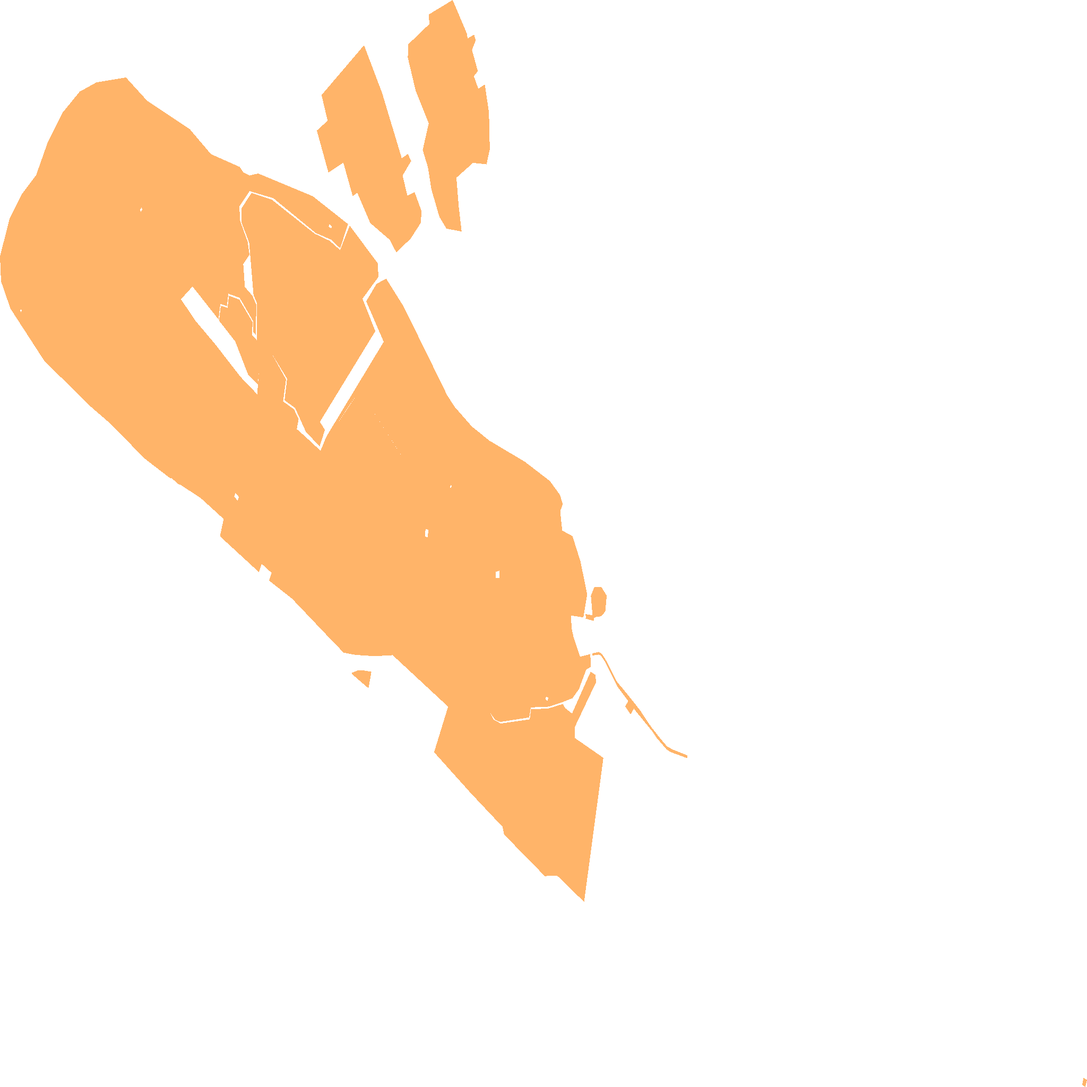
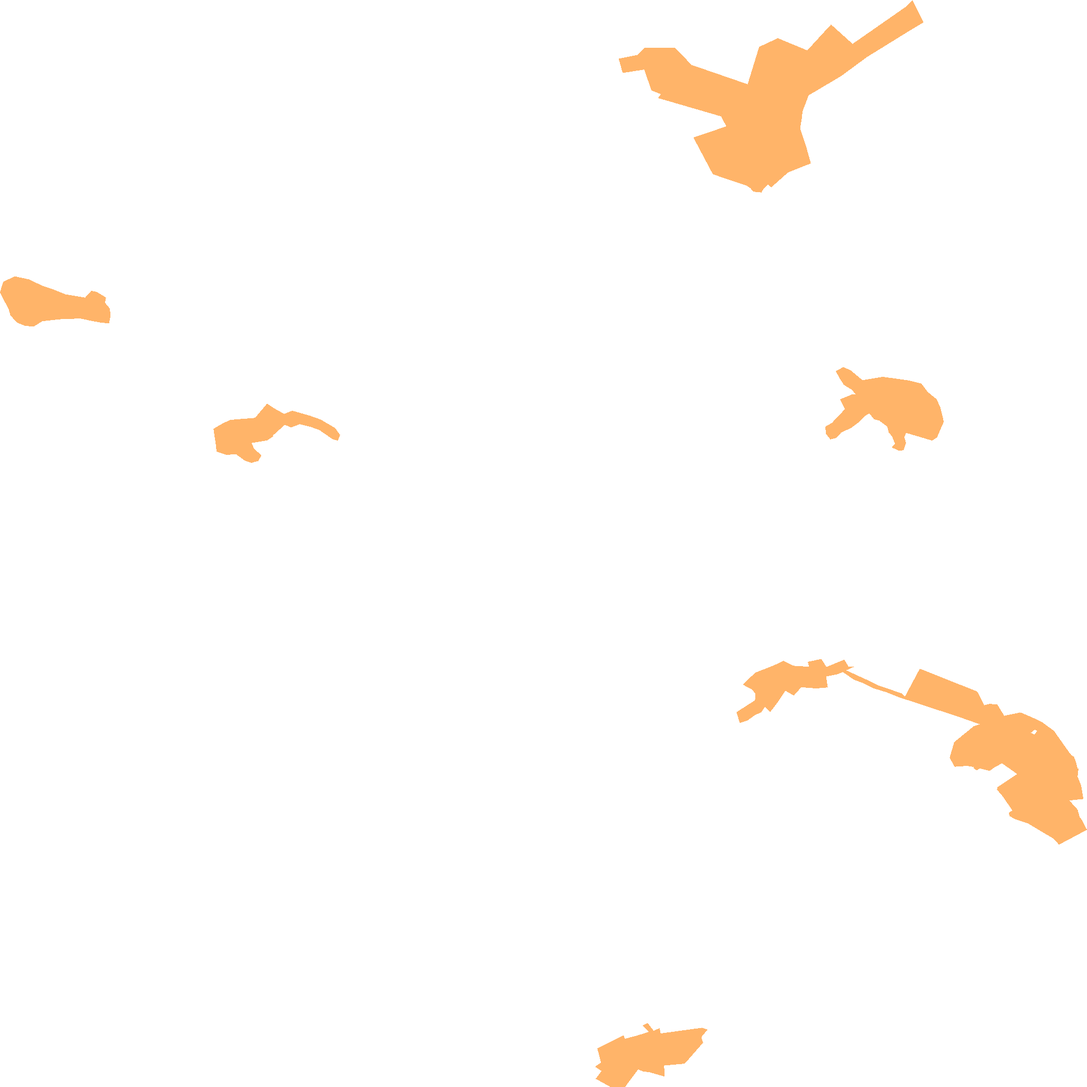
Update Störungskarte

diff --git a/stoerungen.html b/stoerungen.html
@@ -134,7 +134,7 @@
         <div><span style="display:inline-block;width:20px; height:10px; background:#00143C; margin-right:5px;"></span>Ausbauphase 2: Interessenbekundung möglich</div>
     </div>
     <script>
-    const bounds = [[53.170185132, 8.528619404], [53.202405457, 8.62410379]];
+    const bounds = [[50.140015555, 7.929725385], [50.221578332, 8.022248931]];
        const map = L.map('map', {zoomControl: false});
        map.fitBounds(bounds);
         const maptiler = L.tileLayer('https://api.maptiler.com/maps/basic/{z}/{x}/{y}.png?key=UrGMdlREnrfymuiwCa7d',
@@ -143,7 +143,7 @@
         L.control.zoom({
             position: 'topleft'
         }).addTo(map);
-        const geoJsonData = {"type": "FeatureCollection", "features": [{"type": "Feature", "geometry": {"type": "MultiPolygon", "coordinates": [[[[8.58095828, 53.182168112], [8.579112816, 53.180855714], [8.579112816, 53.180531295], [8.581622647, 53.179941436], [8.579928384, 53.175672317], [8.577587233, 53.176441439], [8.57689826, 53.176451271], [8.576488158, 53.176431607], [8.572895656, 53.177670403], [8.572764422, 53.177896529], [8.569992126, 53.178889501], [8.566748824, 53.180108788], [8.567983135, 53.181459078], [8.568792486, 53.181254935], [8.570501885, 53.181143365], [8.571707773, 53.181260007], [8.571978569, 53.181077436], [8.572608584, 53.180958938], [8.575151222, 53.181081824], [8.575266564, 53.181381661], [8.576779843, 53.18140378], [8.578065516, 53.181540182], [8.578268004, 53.181416069], [8.578866755, 53.181253861], [8.580498964, 53.182492518], [8.580950077, 53.182394213], [8.58095828, 53.182168112]]]]}, "properties": {"dgn_phase": 1}}, {"type": "Feature", "geometry": {"type": "MultiPolygon", "coordinates": [[[[8.581438173, 53.185006894], [8.581916514, 53.184750115], [8.581786963, 53.184275366], [8.581413261, 53.184135031], [8.581019626, 53.184126073], [8.580810353, 53.184084271], [8.580755543, 53.184000666], [8.580003302, 53.184073304], [8.580081868, 53.184070843], [8.580062041, 53.184201534], [8.580665854, 53.184167875], [8.580526338, 53.184747129], [8.580815336, 53.184997937], [8.581438173, 53.185006894]]]]}, "properties": {"dgn_phase": 1}}, {"type": "Feature", "geometry": {"type": "MultiPolygon", "coordinates": [[[[8.552250573, 53.185197408], [8.552478059, 53.185423494], [8.551615335, 53.185690383], [8.551357653, 53.18544861], [8.547941404, 53.186509305], [8.548267436, 53.187021667], [8.546231275, 53.187648288], [8.544442048, 53.188041398], [8.544442048, 53.188041398], [8.544272985, 53.188055488], [8.544272985, 53.188055488], [8.544185937, 53.188081567], [8.545009581, 53.188902875], [8.545139879, 53.189094071], [8.544717075, 53.189266146], [8.544368728, 53.189020779], [8.543727874, 53.188225717], [8.543661229, 53.188226452], [8.543589814, 53.188228629], [8.543589814, 53.188228629], [8.54346308, 53.188256471], [8.5413531, 53.188805671], [8.538203509, 53.189881936], [8.53645647, 53.190390571], [8.532494876, 53.19171742], [8.529535983, 53.193257986], [8.528711676, 53.194065103], [8.528619404, 53.194805868], [8.529474468, 53.195940946], [8.530544836, 53.196655882], [8.5317936, 53.19721603], [8.532814757, 53.198188902], [8.534112732, 53.199065941], [8.53561986, 53.199688701], [8.537102383, 53.199965071], [8.539686031, 53.200108783], [8.541543797, 53.199419699], [8.545302391, 53.198572147], [8.547154006, 53.197835133], [8.549688443, 53.197455565], [8.549993629, 53.19729718], [8.550556314, 53.197203115], [8.551293995, 53.197263938], [8.5560922, 53.196589548], [8.559186427, 53.195764053], [8.558503606, 53.195045416], [8.557710056, 53.195299704], [8.556356716, 53.195498711], [8.552628881, 53.196530585], [8.550543507, 53.196740642], [8.549645382, 53.196283674], [8.549713048, 53.19585987], [8.550371263, 53.195240739], [8.550537355, 53.194853778], [8.549989868, 53.194577374], [8.550125202, 53.193899258], [8.550783417, 53.193644962], [8.551134054, 53.193372236], [8.551084843, 53.192480339], [8.550863387, 53.192557736], [8.55087569, 53.192874692], [8.549669987, 53.193578623], [8.54867959, 53.193700244], [8.548556558, 53.193331696], [8.547972161, 53.193398035], [8.547812222, 53.192937347], [8.545529998, 53.193914], [8.544514994, 53.193534398], [8.545800667, 53.19289312], [8.547553856, 53.192189178], [8.549737654, 53.191238285], [8.551214026, 53.190718601], [8.551355135, 53.191352145], [8.551647613, 53.19237344], [8.551650785, 53.192384513], [8.552500252, 53.191917024], [8.553748462, 53.1911572], [8.553483945, 53.190508515], [8.554443586, 53.190272628], [8.55485574, 53.189988823], [8.554689648, 53.189686588], [8.55533556, 53.189494925], [8.556775022, 53.189045253], [8.557291751, 53.189465439], [8.562323713, 53.192273947], [8.560785828, 53.19347543], [8.561696256, 53.193991394], [8.56254517, 53.194146182], [8.564083056, 53.193313268], [8.566217641, 53.191850102], [8.56788471, 53.190700173], [8.568536774, 53.190353714], [8.570062357, 53.18976399], [8.571624849, 53.18934012], [8.574731379, 53.18871721], [8.57692748, 53.188145893], [8.577819453, 53.18772938], [8.578047061, 53.187463989], [8.577831758, 53.187250201], [8.578004, 53.186678864], [8.578908278, 53.186512991], [8.579615705, 53.185757338], [8.580200101, 53.184780498], [8.579861766, 53.184102227], [8.57879755, 53.184161208], [8.578816004, 53.183811009], [8.579012853, 53.183501358], [8.579572644, 53.182937345], [8.580470769, 53.183018445], [8.580532285, 53.182646119], [8.580113981, 53.182553959], [8.579480371, 53.18198256], [8.578908278, 53.181709761], [8.578102426, 53.181602852], [8.57684751, 53.181459078], [8.575241958, 53.181436959], [8.575106623, 53.181138351], [8.572553732, 53.181005635], [8.572113967, 53.181069829], [8.571707773, 53.181260007], [8.570501885, 53.181143365], [8.568792486, 53.181254935], [8.567983135, 53.181459078], [8.563111112, 53.182985267], [8.561536316, 53.182955777], [8.559863096, 53.18299264], [8.558805031, 53.183058996], [8.557476298, 53.183523476], [8.554277494, 53.184658853], [8.552250573, 53.185197408]], [[8.536640958, 53.19757693], [8.536087971, 53.197315399], [8.536470489, 53.196747499], [8.536764683, 53.196483877], [8.537460312, 53.196803992], [8.536981899, 53.197173425], [8.536640958, 53.19757693]], [[8.54940995, 53.196881873], [8.549890294, 53.197177202], [8.549287757, 53.19742457], [8.548866405, 53.197134291], [8.54940995, 53.196881873]], [[8.546821179, 53.195219692], [8.547367626, 53.19555743], [8.547043715, 53.195727781], [8.54647254, 53.195401893], [8.546821179, 53.195219692]], [[8.547911906, 53.191888483], [8.546820925, 53.192331759], [8.546762405, 53.192113878], [8.547824127, 53.191660583], [8.547911906, 53.191888483]], [[8.543869842, 53.191973632], [8.543731901, 53.191535361], [8.544559542, 53.191262379], [8.544793622, 53.191665591], [8.543869842, 53.191973632]], [[8.564105847, 53.188781734], [8.563424731, 53.189145293], [8.561123782, 53.190355671], [8.560218885, 53.190832894], [8.559194918, 53.190334351], [8.55814252, 53.189785685], [8.557404477, 53.189277958], [8.558525211, 53.188909443], [8.558743891, 53.189138742], [8.55948762, 53.189036278], [8.560227633, 53.189578206], [8.562872492, 53.188609299], [8.562461374, 53.18806736], [8.563119163, 53.187837443], [8.564105847, 53.188781734]], [[8.565598426, 53.188022209], [8.564710242, 53.18850434], [8.564503584, 53.188351534], [8.565400563, 53.187906285], [8.565598426, 53.188022209]], [[8.554479559, 53.187811198], [8.554034294, 53.187108276], [8.555374373, 53.186759375], [8.555288744, 53.186525918], [8.556140743, 53.186338639], [8.556483256, 53.186361729], [8.557258189, 53.186264241], [8.557497948, 53.18653105], [8.556988461, 53.18669524], [8.556812923, 53.186505395], [8.555952361, 53.186708067], [8.556110773, 53.186879952], [8.555622694, 53.186997962], [8.555746855, 53.187303248], [8.55463369, 53.187580313], [8.554753569, 53.187757325], [8.554479559, 53.187811198]], [[8.549606545, 53.187676203], [8.549293109, 53.187795422], [8.549188175, 53.187681102], [8.549492073, 53.187570865], [8.549606545, 53.187676203]], [[8.53038061, 53.193198412], [8.530455568, 53.193157124], [8.530524481, 53.193204931], [8.530449523, 53.193244769], [8.53038061, 53.193198412]], [[8.541040026, 53.196249071], [8.540908003, 53.196179985], [8.540989921, 53.196127575], [8.541125125, 53.196196661], [8.541040026, 53.196249071]], [[8.557550229, 53.195755427], [8.557487663, 53.195688611], [8.557713445, 53.195633202], [8.55776785, 53.19569513], [8.557550229, 53.195755427]], [[8.565997582, 53.186726401], [8.56595199, 53.186503649], [8.566193974, 53.186478432], [8.566246579, 53.186701184], [8.565997582, 53.186726401]], [[8.56822804, 53.18803032], [8.568140365, 53.187973583], [8.568201737, 53.18793786], [8.568291166, 53.187995648], [8.56822804, 53.18803032]], [[8.572181316, 53.185457118], [8.572165535, 53.185277439], [8.572489933, 53.185273236], [8.572512729, 53.185489691], [8.572181316, 53.185457118]], [[8.576586121, 53.181754125], [8.576542283, 53.181678464], [8.576719387, 53.181629075], [8.576777253, 53.1817226], [8.576586121, 53.181754125]]]]}, "properties": {"dgn_phase": 1}}, {"type": "Feature", "geometry": {"type": "MultiPolygon", "coordinates": [[[[8.536981899, 53.197173425], [8.537460312, 53.196803992], [8.536764683, 53.196483877], [8.536470489, 53.196747499], [8.536873796, 53.196854604], [8.536981899, 53.197173425]]]]}, "properties": {"dgn_phase": 1}}, {"type": "Feature", "geometry": {"type": "MultiPolygon", "coordinates": [[[[8.547043715, 53.195727781], [8.547367626, 53.19555743], [8.546821179, 53.195219692], [8.54647254, 53.195401893], [8.547043715, 53.195727781]]]]}, "properties": {"dgn_phase": 1}}, {"type": "Feature", "geometry": {"type": "MultiPolygon", "coordinates": [[[[8.555501652, 53.189594443], [8.554548162, 53.190309485], [8.553613127, 53.190541687], [8.553840735, 53.191179314], [8.552500252, 53.191917024], [8.551650785, 53.192384513], [8.551647613, 53.19237344], [8.551355135, 53.191352145], [8.551257085, 53.191009772], [8.550408173, 53.191304627], [8.549282441, 53.192285003], [8.547867585, 53.192896805], [8.548009071, 53.193342752], [8.548611922, 53.193280099], [8.548722649, 53.193641277], [8.549645382, 53.193523342], [8.550808023, 53.192856265], [8.550758811, 53.192480339], [8.551177115, 53.192321859], [8.551207873, 53.193409092], [8.550887994, 53.193659704], [8.550506597, 53.195214942], [8.549817625, 53.195826702], [8.549854534, 53.196239452], [8.550715749, 53.196689049], [8.552512001, 53.196482677], [8.55625214, 53.195480285], [8.557580873, 53.195266536], [8.558491302, 53.194993821], [8.559340216, 53.195716144], [8.561800833, 53.194603173], [8.561862349, 53.194197778], [8.560459796, 53.193549139], [8.56159168, 53.192590906], [8.556719657, 53.189900365], [8.557162568, 53.189664473], [8.556707355, 53.189177943], [8.555501652, 53.189594443]]]]}, "properties": {"dgn_phase": 1}}, {"type": "Feature", "geometry": {"type": "MultiPolygon", "coordinates": [[[[8.560000208, 53.196693578], [8.55960459, 53.196589889], [8.558778737, 53.19758233], [8.557468253, 53.197292007], [8.556449535, 53.198536236], [8.557399019, 53.198826551], [8.556864934, 53.199587878], [8.56059858, 53.201066059], [8.562181054, 53.19965305], [8.563911882, 53.197715642], [8.564455858, 53.197843027], [8.56473279, 53.19762973], [8.563981116, 53.197203132], [8.564406404, 53.196607665], [8.565034449, 53.196714317], [8.565657547, 53.196136618], [8.565568534, 53.195792958], [8.564703119, 53.195336715], [8.563432196, 53.194921946], [8.562848658, 53.195298202], [8.561147501, 53.195792958], [8.560000208, 53.196693578]]]]}, "properties": {"dgn_phase": 1}}, {"type": "Feature", "geometry": {"type": "MultiPolygon", "coordinates": [[[[8.543727874, 53.188225717], [8.544368728, 53.189020779], [8.544717075, 53.189266146], [8.545139879, 53.189094071], [8.545009581, 53.188902875], [8.544185937, 53.188081567], [8.543727874, 53.188225717]]]]}, "properties": {"dgn_phase": 1}}, {"type": "Feature", "geometry": {"type": "MultiPolygon", "coordinates": [[[[8.564710242, 53.18850434], [8.565598426, 53.188022209], [8.565400563, 53.187906285], [8.564503584, 53.188351534], [8.564710242, 53.18850434]]]]}, "properties": {"dgn_phase": 1}}, {"type": "Feature", "geometry": {"type": "MultiPolygon", "coordinates": [[[[8.580939374, 53.183061178], [8.58120527, 53.183080121], [8.581437695, 53.183041121], [8.581560416, 53.182987636], [8.581921141, 53.182799323], [8.582164606, 53.182634914], [8.582419464, 53.182462811], [8.582752298, 53.182233268], [8.582852705, 53.182178668], [8.583172523, 53.182056095], [8.583769394, 53.181809835], [8.584321638, 53.181576945], [8.584483223, 53.181506921], [8.584892477, 53.181329568], [8.585230889, 53.181152391], [8.585833336, 53.180853753], [8.586599413, 53.180525025], [8.58720558, 53.180285443], [8.587651838, 53.18019741], [8.589018504, 53.180010199], [8.589015094, 53.180001783], [8.588994404, 53.179950726], [8.588986893, 53.179932194], [8.587542133, 53.180110491], [8.587151658, 53.180198523], [8.586326081, 53.180523911], [8.585905854, 53.180731177], [8.584578236, 53.181279424], [8.584305161, 53.181401281], [8.583799144, 53.181627089], [8.582835971, 53.182062781], [8.582029317, 53.182610978], [8.581781686, 53.182779267], [8.581532525, 53.18291298], [8.581335427, 53.18298875], [8.581188534, 53.183001007], [8.580651628, 53.182974831], [8.580639563, 53.1830401], [8.580939374, 53.183061178]]]]}, "properties": {"dgn_phase": 1}}, {"type": "Feature", "geometry": {"type": "MultiPolygon", "coordinates": [[[[8.584013829, 53.181228445], [8.583541246, 53.181462566], [8.583799144, 53.181627089], [8.584305161, 53.181401281], [8.584013829, 53.181228445]]]]}, "properties": {"dgn_phase": 1}}, {"type": "Feature", "geometry": {"type": "MultiPolygon", "coordinates": [[[[8.56001012, 53.182528448], [8.560462084, 53.182538631], [8.561247076, 53.182493829], [8.560985412, 53.182003042], [8.559561553, 53.182418481], [8.559530969, 53.182463282], [8.56001012, 53.182528448]]]]}, "properties": {"dgn_phase": 1}}, {"type": "Feature", "geometry": {"type": "MultiPolygon", "coordinates": [[[[8.566338169, 53.201693855], [8.566282913, 53.201975188], [8.568382619, 53.202405457], [8.56963968, 53.201404247], [8.569694936, 53.20126358], [8.570261304, 53.201379423], [8.57041602, 53.201211284], [8.570080066, 53.200925313], [8.570592837, 53.200297759], [8.570243623, 53.200146827], [8.570637041, 53.199776114], [8.571207278, 53.199900568], [8.571569753, 53.199077047], [8.571644901, 53.197983409], [8.571357572, 53.197535883], [8.570166412, 53.19757737], [8.568712089, 53.197137607], [8.568915972, 53.196287941], [8.569168608, 53.195544468], [8.567843374, 53.195626782], [8.567218431, 53.195974621], [8.566513707, 53.196792433], [8.566207885, 53.197450918], [8.565746933, 53.197958051], [8.566278799, 53.198746618], [8.565135286, 53.199713058], [8.564445671, 53.200692629], [8.564473298, 53.201089813], [8.566338169, 53.201693855]]]]}, "properties": {"dgn_phase": 1}}, {"type": "Feature", "geometry": {"type": "MultiPolygon", "coordinates": [[[[8.543869842, 53.191973632], [8.544793622, 53.191665591], [8.544559542, 53.191262379], [8.543731901, 53.191535361], [8.543869842, 53.191973632]]]]}, "properties": {"dgn_phase": 1}}, {"type": "Feature", "geometry": {"type": "MultiPolygon", "coordinates": [[[[8.561123782, 53.190355671], [8.564105847, 53.188781734], [8.563119163, 53.187837443], [8.562461374, 53.18806736], [8.562872492, 53.188609299], [8.560227633, 53.189578206], [8.55948762, 53.189036278], [8.558743891, 53.189138742], [8.558525211, 53.188909443], [8.557404477, 53.189277958], [8.55814252, 53.189785685], [8.560218885, 53.190832894], [8.561123782, 53.190355671]]]]}, "properties": {"dgn_phase": 1}}, {"type": "Feature", "geometry": {"type": "MultiPolygon", "coordinates": [[[[8.549287757, 53.19742457], [8.549890294, 53.197177202], [8.54940995, 53.196881873], [8.548866405, 53.197134291], [8.549287757, 53.19742457]]]]}, "properties": {"dgn_phase": 1}}, {"type": "Feature", "geometry": {"type": "MultiPolygon", "coordinates": [[[[8.554479559, 53.187811198], [8.554753569, 53.187757325], [8.55463369, 53.187580313], [8.555746855, 53.187303248], [8.555622694, 53.186997962], [8.556110773, 53.186879952], [8.555952361, 53.186708067], [8.556812923, 53.186505395], [8.556988461, 53.18669524], [8.557497948, 53.18653105], [8.557258189, 53.186264241], [8.556483256, 53.186361729], [8.556140743, 53.186338639], [8.555288744, 53.186525918], [8.555374373, 53.186759375], [8.554034294, 53.187108276], [8.554479559, 53.187811198]]]]}, "properties": {"dgn_phase": 1}}, {"type": "Feature", "geometry": {"type": "MultiPolygon", "coordinates": [[[[8.536640958, 53.19757693], [8.536981899, 53.197173425], [8.536873796, 53.196854604], [8.536470489, 53.196747499], [8.536087971, 53.197315399], [8.536640958, 53.19757693]]]]}, "properties": {"dgn_phase": 1}}, {"type": "Feature", "geometry": {"type": "MultiPolygon", "coordinates": [[[[8.547911906, 53.191888483], [8.547824127, 53.191660583], [8.546762405, 53.192113878], [8.546820925, 53.192331759], [8.547911906, 53.191888483]]]]}, "properties": {"dgn_phase": 1}}, {"type": "Feature", "geometry": {"type": "MultiPolygon", "coordinates": [[[[8.623797805, 53.170453592], [8.62410379, 53.170400233], [8.623959143, 53.170185132], [8.623685146, 53.170247661], [8.623797805, 53.170453592]]]]}, "properties": {"dgn_phase": 1}}]};
+        const geoJsonData = {"type": "FeatureCollection", "features": [{"type": "Feature", "geometry": {"type": "MultiPolygon", "coordinates": [[[[8.016136822, 50.160112245], [8.015656347, 50.160341315], [8.01559489, 50.160606177], [8.015907758, 50.160756503], [8.01601391, 50.160613335], [8.016136822, 50.160112245]]]]}, "properties": {"dgn_phase": 1}}, {"type": "Feature", "geometry": {"type": "MultiPolygon", "coordinates": [[[[8.002296658, 50.218285696], [8.003543073, 50.21731075], [8.001300203, 50.215859152], [7.998557416, 50.214426775], [7.998043671, 50.213235822], [7.997964858, 50.212657859], [7.997833503, 50.21195146], [7.998323896, 50.210643747], [7.998744232, 50.20931852], [7.996803095, 50.208641311], [7.995378621, 50.207520414], [7.995091411, 50.207733081], [7.994774813, 50.207470859], [7.994531554, 50.207137544], [7.993844014, 50.207197479], [7.993582913, 50.20747086], [7.993253588, 50.207660527], [7.990404641, 50.208501199], [7.988746647, 50.211256738], [7.99154889, 50.212097411], [7.991105201, 50.212844675], [7.985734236, 50.214222444], [7.985982352, 50.214508507], [7.987850514, 50.215629403], [7.988597779, 50.216703597], [7.993361591, 50.215255772], [7.994342377, 50.218058014], [7.995930314, 50.218711871], [7.998438131, 50.217796596], [8.000460605, 50.21973936], [8.002296658, 50.218285696]]]]}, "properties": {"dgn_phase": 1}}, {"type": "Feature", "geometry": {"type": "MultiPolygon", "coordinates": [[[[7.939135495, 50.197892448], [7.939016191, 50.197325754], [7.938389845, 50.19735558], [7.937405587, 50.197519624], [7.936540631, 50.197683666], [7.935481808, 50.197638927], [7.935033738, 50.197638927], [7.933331686, 50.197478509], [7.932618509, 50.197087146], [7.931872859, 50.197116971], [7.931157033, 50.197385406], [7.930605253, 50.197922275], [7.930471035, 50.198369665], [7.930068384, 50.199040751], [7.929725385, 50.199652184], [7.929859602, 50.200039922], [7.929993819, 50.20042766], [7.930978078, 50.200845225], [7.932215858, 50.200606617], [7.933304508, 50.200144313], [7.934303679, 50.199846053], [7.935317765, 50.199488141], [7.936973109, 50.199249533], [7.937495064, 50.199756575], [7.937942455, 50.19968201], [7.938747756, 50.199249532], [7.93865828, 50.198861795], [7.939075843, 50.198429317], [7.939135495, 50.197892448]]]]}, "properties": {"dgn_phase": 1}}, {"type": "Feature", "geometry": {"type": "MultiPolygon", "coordinates": [[[[7.984616259, 50.217993796], [7.987161629, 50.218005472], [7.988597779, 50.216703597], [7.987850514, 50.215629403], [7.985982352, 50.214508507], [7.985165031, 50.214794569], [7.984569554, 50.216359155], [7.982724745, 50.216102282], [7.98238614, 50.217176476], [7.983985754, 50.2174567], [7.984616259, 50.217993796]]]]}, "properties": {"dgn_phase": 1}}, {"type": "Feature", "geometry": {"type": "MultiPolygon", "coordinates": [[[[8.003467179, 50.170587135], [8.004418655, 50.170172651], [8.006479439, 50.169546177], [8.0067538, 50.1693129], [8.006852301, 50.1692904], [8.0072328, 50.1691926], [8.0076941, 50.1690775], [8.0080508, 50.1689658], [8.010353301, 50.1682911], [8.011967901, 50.1678137], [8.012247701, 50.1678005], [8.012942133, 50.16762689], [8.013654498, 50.167378105], [8.013117935, 50.167233818], [8.01131141, 50.167795838], [8.006268949, 50.16925353], [8.005255293, 50.16961209], [8.004030457, 50.16994854], [8.003207557, 50.170319966], [8.002426549, 50.170565585], [8.001457359, 50.171158692], [8.001755229, 50.171278316], [8.003467179, 50.170587135]]]]}, "properties": {"dgn_phase": 1}}, {"type": "Feature", "geometry": {"type": "MultiPolygon", "coordinates": [[[[7.994000467, 50.171101223], [7.995566333, 50.171638091], [7.996397399, 50.171990901], [7.997266417, 50.171623177], [7.998593675, 50.171548613], [7.998489283, 50.171921438], [7.999637586, 50.17213022], [8.000070062, 50.1715337], [8.00159119, 50.172081753], [8.001949102, 50.171559798], [8.002456144, 50.171559797], [8.001755229, 50.171278316], [8.001457359, 50.171158692], [8.001054321, 50.170996831], [8.000040236, 50.170817875], [8.000189367, 50.169997659], [7.999175281, 50.169923095], [7.997922589, 50.170012572], [7.997296243, 50.169386226], [7.996580417, 50.169744139], [7.99589442, 50.168849358], [7.995282985, 50.168148446], [7.994835595, 50.168551098], [7.994522421, 50.168133533], [7.993985553, 50.167924751], [7.993359207, 50.167522099], [7.992703034, 50.167328231], [7.992404774, 50.168133533], [7.993985553, 50.169028313], [7.994030293, 50.169535356], [7.993717119, 50.16984853], [7.992956556, 50.170206442], [7.994000467, 50.171101223]]]]}, "properties": {"dgn_phase": 1}}, {"type": "Feature", "geometry": {"type": "MultiPolygon", "coordinates": [[[[8.0067538, 50.1693129], [8.0080171, 50.1714018], [8.012904299, 50.1696907], [8.0135091, 50.1686661], [8.0139551, 50.1687624], [8.014618099, 50.1687219], [8.014705201, 50.1685933], [8.015200901, 50.167869], [8.014727701, 50.1677493], [8.0145462, 50.1680318], [8.014011699, 50.1678918], [8.012942133, 50.16762689], [8.012247701, 50.1678005], [8.011967901, 50.1678137], [8.010353301, 50.1682911], [8.0080508, 50.1689658], [8.0076941, 50.1690775], [8.0072328, 50.1691926], [8.006852301, 50.1692904], [8.0067538, 50.1693129]]]]}, "properties": {"dgn_phase": 1}}, {"type": "Feature", "geometry": {"type": "MultiPolygon", "coordinates": [[[[8.001225821, 50.191610342], [8.00221008, 50.191968254], [8.002560536, 50.191990624], [8.002232449, 50.192333623], [8.00154645, 50.192706448], [8.001158712, 50.193243317], [8.000860453, 50.193735446], [8.001516624, 50.194033707], [8.002142971, 50.193780186], [8.003142142, 50.193049448], [8.004842226, 50.193302969], [8.006109832, 50.193153839], [8.007153743, 50.193019622], [8.008152916, 50.192795927], [8.008689783, 50.19216958], [8.009450347, 50.191617798], [8.009778433, 50.190976539], [8.01006178, 50.189932628], [8.009480173, 50.1887545], [8.009062609, 50.188515893], [8.008287132, 50.188724675], [8.00684057, 50.1890975], [8.006706353, 50.188769414], [8.006840569, 50.188336936], [8.006646701, 50.187800068], [8.006229136, 50.187755328], [8.005632615, 50.18800885], [8.005899463, 50.188287403], [8.005647529, 50.188843979], [8.005364182, 50.189142239], [8.005244878, 50.189574716], [8.005006269, 50.189723846], [8.004573791, 50.190022106], [8.004126402, 50.190111584], [8.00372375, 50.190558975], [8.003365838, 50.190380019], [8.002739492, 50.18984315], [8.002172798, 50.189470325], [8.001337668, 50.189127326], [8.000905191, 50.188724674], [8.000413062, 50.18860537], [8.000040236, 50.189008022], [7.999965671, 50.189559803], [8.000532365, 50.18984315], [8.001650842, 50.190887061], [8.001225821, 50.191610342]]]]}, "properties": {"dgn_phase": 1}}, {"type": "Feature", "geometry": {"type": "MultiPolygon", "coordinates": [[[[8.021455321, 50.160818701], [8.021585756, 50.160385682], [8.02161202, 50.16027689], [8.021801975, 50.160072872], [8.022248931, 50.159314068], [8.021975171, 50.159188792], [8.019868896, 50.158200893], [8.019332549, 50.158684107], [8.017254209, 50.159779374], [8.016136822, 50.160112245], [8.01601391, 50.160613335], [8.015907758, 50.160756503], [8.015052957, 50.161848144], [8.014583654, 50.162324163], [8.014611589, 50.162503117], [8.016310136, 50.163496827], [8.016534662, 50.163622453], [8.016899898, 50.162921098], [8.017129205, 50.162386543], [8.017306615, 50.162146134], [8.017569266, 50.161673769], [8.018000308, 50.161273952], [8.018096877, 50.161184378], [8.01841694, 50.1608481], [8.019693247, 50.16056711], [8.020243221, 50.160534593], [8.020746045, 50.160684919], [8.021455321, 50.160818701]]]]}, "properties": {"dgn_phase": 1}}, {"type": "Feature", "geometry": {"type": "MultiPolygon", "coordinates": [[[[7.948709648, 50.189820781], [7.949335995, 50.190074302], [7.949969799, 50.190119041], [7.951431274, 50.190223432], [7.952460271, 50.191297169], [7.953086619, 50.190924344], [7.953906834, 50.190521692], [7.954607746, 50.1907603], [7.956099047, 50.190387475], [7.957038567, 50.190089215], [7.958246521, 50.189462869], [7.958678998, 50.188940913], [7.958485128, 50.188523349], [7.958052651, 50.188612827], [7.95690098, 50.189314982], [7.956140416, 50.189553591], [7.955235359, 50.189751594], [7.954494168, 50.189498968], [7.953973155, 50.189704139], [7.952955108, 50.188902988], [7.952983266, 50.18883213], [7.952473333, 50.188531718], [7.951137011, 50.188337707], [7.951368088, 50.187885478], [7.951983055, 50.187419786], [7.951714621, 50.186987309], [7.951133014, 50.186853091], [7.950581232, 50.187002221], [7.949820668, 50.187494351], [7.948970627, 50.187449611], [7.948165324, 50.18768822], [7.94809076, 50.188225088], [7.947896889, 50.189403217], [7.948709648, 50.189820781]]]]}, "properties": {"dgn_phase": 1}}, {"type": "Feature", "geometry": {"type": "MultiPolygon", "coordinates": [[[[8.017460927, 50.16658665], [8.015606063, 50.167277345], [8.015224712, 50.167354496], [8.014727701, 50.1677493], [8.015200901, 50.167869], [8.016544669, 50.168114754], [8.016661995, 50.16809686], [8.017935816, 50.167610163], [8.018461509, 50.167374508], [8.017822703, 50.166840969], [8.017460927, 50.16658665]]]]}, "properties": {"dgn_phase": 1}}, {"type": "Feature", "geometry": {"type": "MultiPolygon", "coordinates": [[[[8.012054419, 50.164108877], [8.010986336, 50.164044387], [8.010555655, 50.164714744], [8.010948194, 50.165892552], [8.012591286, 50.167073609], [8.013117935, 50.167233818], [8.013654498, 50.167378105], [8.012942133, 50.16762689], [8.014011699, 50.1678918], [8.0145462, 50.1680318], [8.014727701, 50.1677493], [8.015224712, 50.167354496], [8.015606063, 50.167277345], [8.017460927, 50.16658665], [8.017767486, 50.166468198], [8.018009239, 50.166716974], [8.017822703, 50.166840969], [8.018461509, 50.167374508], [8.019446526, 50.166725424], [8.020703254, 50.165158996], [8.020926758, 50.16491343], [8.021130299, 50.164800653], [8.021304776, 50.164421716], [8.0214356, 50.163927919], [8.021521978, 50.16392126], [8.021536491, 50.16377365], [8.021496328, 50.163769619], [8.021448568, 50.163292783], [8.021749104, 50.162652684], [8.021942504, 50.16162758], [8.020748982, 50.16151411], [8.021455321, 50.160818701], [8.020746045, 50.160684919], [8.020243221, 50.160534593], [8.019693247, 50.16056711], [8.01841694, 50.1608481], [8.018096877, 50.161184378], [8.018000308, 50.161273952], [8.017569266, 50.161673769], [8.017306615, 50.162146134], [8.017129205, 50.162386543], [8.016899898, 50.162921098], [8.016534662, 50.163622453], [8.016310136, 50.163496827], [8.015014333, 50.164302061], [8.01441068, 50.164019944], [8.013956612, 50.163733554], [8.013130473, 50.163925975], [8.012857625, 50.163774078], [8.012592645, 50.163938023], [8.0126196, 50.164025044], [8.012054419, 50.164108877]]]]}, "properties": {"dgn_phase": 1}}, {"type": "Feature", "geometry": {"type": "MultiPolygon", "coordinates": [[[[8.002680332, 50.218521287], [8.003419625, 50.218091346], [8.006043839, 50.219727725], [8.00682062, 50.220174522], [8.007988958, 50.220508677], [8.008328778, 50.219896986], [8.006839935, 50.219107292], [8.003543073, 50.21731075], [8.002296658, 50.218285696], [8.002680332, 50.218521287]]]]}, "properties": {"dgn_phase": 2}}, {"type": "Feature", "geometry": {"type": "MultiPolygon", "coordinates": [[[[8.007988958, 50.220508677], [8.00682062, 50.220174522], [8.006043839, 50.219727725], [8.003419625, 50.218091346], [8.002680332, 50.218521287], [8.006803599, 50.221052911], [8.007394697, 50.221578332], [8.007988958, 50.220508677]]]]}, "properties": {"dgn_phase": 2}}, {"type": "Feature", "geometry": {"type": "MultiPolygon", "coordinates": [[[[7.984847967, 50.144816064], [7.985363215, 50.144233847], [7.985856985, 50.144422981], [7.985871363, 50.144401211], [7.98595819, 50.144034895], [7.989496347, 50.144461491], [7.989944948, 50.144317748], [7.989423993, 50.143761314], [7.989568703, 50.143334712], [7.988005221, 50.141766957], [7.986253819, 50.141626845], [7.986300524, 50.140797848], [7.98499281, 50.141124776], [7.98446447, 50.141183156], [7.984047053, 50.141334945], [7.982937833, 50.140027231], [7.981688499, 50.140015555], [7.98042749, 50.140634384], [7.980929558, 50.141218185], [7.980369109, 50.141533437], [7.980882854, 50.141848689], [7.980567602, 50.142911206], [7.98279772, 50.143891991], [7.982926156, 50.143635119], [7.984012025, 50.143891991], [7.984946107, 50.144148864], [7.984420685, 50.144639256], [7.984847967, 50.144816064]]]]}, "properties": {"dgn_phase": 2}}]};
          //L.imageOverlay("output_tiles/stoerungen.png", bounds).addTo(map);
         const zoomFullExtentControl = L.Control.extend({
             options: { position: 'topleft' },
